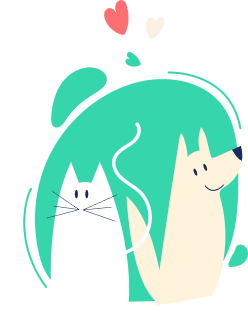
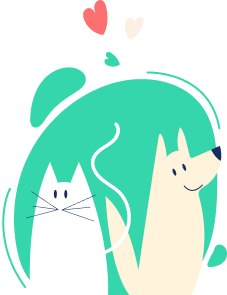
pagina inicial finalizada

diff --git a/html/inicial.html b/html/inicial.html
@@ -10,7 +10,7 @@
     <link rel="stylesheet" href="../css/generico/base_responsiva/cabecalho.css">
     <link rel="stylesheet" href="../css/generico/base/rodape.css">
     <link rel="stylesheet" href="../css/generico/base_responsiva/rodape.css">
-    <link rel="stylesheet" href="../css/generico/componentes/botao/botao.css">
+    <link rel="stylesheet" href="../css/generico/componentes/botao/botao_pagina_inicial.css">
     <link rel="stylesheet" href="../css/generico/componentes/formulario/">
     <link rel="stylesheet" href="../css/generico/componentes/input/">
     <link rel="stylesheet" href="../css/generico/componentes/label/">
@@ -50,14 +50,14 @@
 
             <section class="secao2">
                 <p class="secao2__texto">Adotar pode mudar uma vida. 
-                    Que tal buscar seu novo melhor amigo hoje? Vem com a gente</p>
+                    Que tal buscar seu novo melhor amigo hoje? Vem com a gente!</p>
             </section>
 
             <section class="secao3">
                 
                 <div class="botoes">
-                    <input class="botao" type="submit" value="Já tenho conta">
-                    <input class="botao" type="submit" value="Quero me cadastrar">
+                    <a class="botao" href="#">Já tenho conta</a>
+                    <a class="botao" href="#">Quero me cadastrar</a>
                 </div>
                 
             </section>

diff --git a/css/pagina_responsiva/responsivo_inicial.css b/css/pagina_responsiva/responsivo_inicial.css
@@ -1,18 +1,33 @@
 @media screen and (min-width: 0) {
+    .conteiner {
+        margin-top: 2.5rem;
+    }
+
     .secao2__texto {
         margin: 0 auto;
         width: 14rem;
     }
-}
 
-@media screen and (min-width: 368px) {
-    .secao2__texto {
+    .forma2 {
+        top: 25%;
     }
 }
 
+@media screen and (min-width: 368px) {
+
+}
+
 @media screen and (min-width: 768px) {
-    .secao2__texto {
+    .secao2__texto, .botao {
         width: 16rem;
+    }
+
+    .forma2 {
+        top: 21%;
+    }
+
+    .forma2 img {
+        width: 5rem;
     }
 }
 
@@ -23,11 +38,7 @@
 }
 
 @media screen and (min-width: 1200px) {
-    .secao2__texto {
-    }
-}
-
-@media screen and (min-width: 1440px) {
-    .secao2__texto {
+    .conteiner {
+        margin-top: -2rem;
     }
 }

diff --git a/css/pagina/style_inicial.css b/css/pagina/style_inicial.css
@@ -8,7 +8,6 @@ body {
     display: flex;
     flex-direction: column;
     justify-content: center;
-    margin-top: 2.5rem;
     gap: 1.4rem;
 }
 
@@ -21,7 +20,7 @@ body {
 }
 
 .secao1__texto {
-    font-size: 1.5rem;
+    font-size: 1.8rem;
     font-weight: 600;
 }
 
@@ -30,15 +29,20 @@ body {
     line-height: 1.3rem;
 }
 
+.ilustracao {
+    margin-left: -2rem;
+    margin-bottom: -0.2rem;
+}
+
 .forma2 {
     position: absolute;
     right: 0;
-    top: 25%;
 }
+
+
 
 .botoes {
     display: flex;
     flex-direction: column;
     gap: 0.7rem;
 }
-

diff --git a/css/generico/componentes/botao/botao_pagina_inicial.css b/css/generico/componentes/botao/botao_pagina_inicial.css
@@ -1,0 +1,12 @@
+.botao {
+    background: #FC7071;
+    border-radius: 7px;
+    border: none;
+    box-shadow: 1px 1px 3px 1px rgba(0, 0, 0, 0.2);
+    color: #FFFFFF;
+    font-weight: 600;
+    font-size: 1rem;
+    padding: 0.5rem 0.7rem;
+    text-decoration: none;
+    text-align: center;
+}

diff --git a/css/generico/base_responsiva/cabecalho.css b/css/generico/base_responsiva/cabecalho.css
@@ -4,17 +4,12 @@
     }
 
     .navegacao--conteiner {
-        width: 80%;
+        width: 70%;
     }
 
     .navegacao__imagem--logo {
         display: none;
     }
-
-    .navegacao__lista {
-        gap: 2.5rem;
-    }
-
 }
 
 @media screen and (min-width: 568px) {

diff --git a/css/generico/base/cabecalho.css b/css/generico/base/cabecalho.css
@@ -28,4 +28,13 @@
 .navegacao__lista {
     display: flex;
     align-items: center;
+    gap: 3rem;
+}
+
+.item__imagem--casa img {
+    width: 0.9rem;
+}
+
+.item__imagem--mensagem img {
+    width: 1.1rem;
 }
